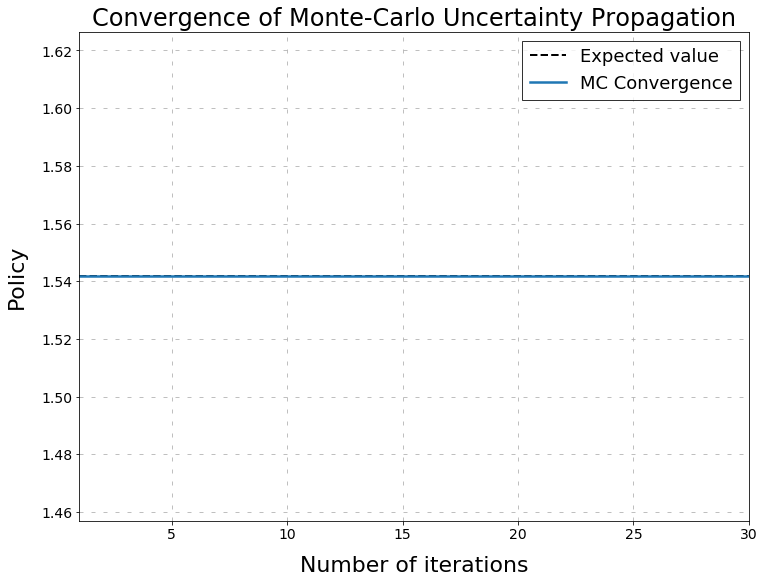
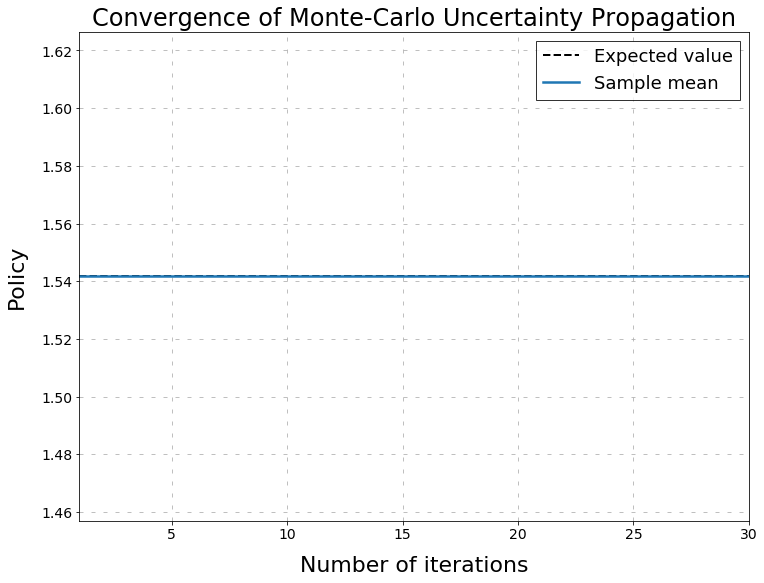
improve code of plots

Changed region(s): [[0.7526, 0.0617, 0.9634, 0.1544], [0.6924, 0.0926, 0.7225, 0.1544]]

diff --git a/uncertainty-quantification/python/convergence_plot.py b/uncertainty-quantification/python/convergence_plot.py
@@ -12,7 +12,7 @@ def convergence_plot(sample, expected, y_label):
     sample: Series, 1d-array, or list.
         A vector of random observations.
     expected: float, int.
-        expectation value of sample mean.
+        Expected value of sample mean.
 
     Returns
     -------
@@ -22,34 +22,29 @@ def convergence_plot(sample, expected, y_label):
         Returns Axes object for setting axes attributes.
 
     """
+    # Compute sample mean for each iteration
     df = pd.DataFrame(sample, columns=["qoi_realization"])
     df["cum_sum"] = df["qoi_realization"].cumsum()
     df["mean_iteration"] = df["cum_sum"] / (df.index.to_series() + 1)
 
-    plt.figure(figsize=(12, 9))
-    plt.title("Convergence of Monte-Carlo Uncertainty Propagation", fontsize=24)
+    fig, ax = plt.subplots(figsize=(12, 9))
 
-    conv_plot, = plt.plot(
-        df.index + 1, df["mean_iteration"], lw=2.5, label="MC Convergence"
+    conv_plot, = ax.plot(
+        df.index + 1, df["mean_iteration"], lw=2.5, label="Sample mean"
     )
 
-    # Plot expected.
-    exp_plot = plt.hlines(
+    # Plot expected value.
+    exp_plot = ax.hlines(
         expected, 1, len(sample), lw=2.0, linestyle="--", label="Expected value"
     )
 
-    plt.xlim(1, len(sample))
-    plt.grid(True, linestyle=(0, (5, 10)))
-
-    # Make sure that all labels are large enough -
-    plt.ylabel(y_label, fontsize=22, labelpad=14)
-    plt.xlabel("Number of iterations", fontsize=22, labelpad=14)
-
-    # Ensure axis ticks are large enough to be easily read.
-    plt.yticks(fontsize=14)
-    plt.xticks(fontsize=14)
-
-    plt.legend(
+    ax.set_title("Convergence of Monte-Carlo Uncertainty Propagation", fontsize=24)
+    ax.set_xlim(1, len(sample))
+    ax.grid(True, linestyle=(0, (5, 10)))
+    ax.set_ylabel(y_label, fontsize=22, labelpad=14)
+    ax.set_xlabel("Number of iterations", fontsize=22, labelpad=14)
+    ax.tick_params(axis="both", labelsize=14)
+    ax.legend(
         handles=[exp_plot, conv_plot],
         fontsize=18,
         loc="upper right",

diff --git a/uncertainty-quantification/python/distplot.py b/uncertainty-quantification/python/distplot.py
@@ -19,30 +19,11 @@ def distplot(sample):
     ax: Axes
         Returns Axes object for setting axes attributes.
 
-    Notes
-    -----
-    `xlabel` and file-title are left to be set outside `custom_distplot` call.
-
     """
-    # Common sizes: (10, 7.5) and (12, 9): ~1.33x wider than tall.
-    plt.figure(figsize=(12, 9))
-
-    plt.title("Distribution of Quantity of Interest", fontsize=24)
-
-    # Remove plot frame lines
-    ax = plt.subplot(111)
-    ax.spines["top"].set_visible(False)
-    ax.spines["right"].set_visible(False)
-
-    # Set axis ticks size
-    plt.xticks(fontsize=14)
-    plt.yticks(fontsize=14)
-
-    # Set y-axis label.
-    plt.ylabel("Kernel Density Estimate", fontsize=22)
+    fig, ax = plt.subplots(figsize=(12, 9))
 
     # Plot mean as vertical line.
-    mean = plt.axvline(
+    mean = ax.axvline(
         np.mean(sample), color="#3F5D7D", linestyle="--", lw=3, label="Mean value"
     )
 
@@ -58,8 +39,13 @@ def distplot(sample):
         kde_kws={"linewidth": 4},
     )
 
-    # Set legend.
-    plt.legend(handles=[mean], fontsize=18, edgecolor="white")
+    ax.set_title("Distribution of Quantity of Interest", fontsize=24)
+    ax.spines["top"].set_visible(False)
+    ax.spines["right"].set_visible(False)
+    ax.tick_params(axis="both", labelsize=14)
+    ax.set_ylabel("Kernel Density Estimate", fontsize=22)
+    ax.legend(handles=[mean], fontsize=18, edgecolor="white")
 
     plt.savefig("figures/distplot.png", bbox_inches="tight")
-    return dp, ax
+
+    return dp
